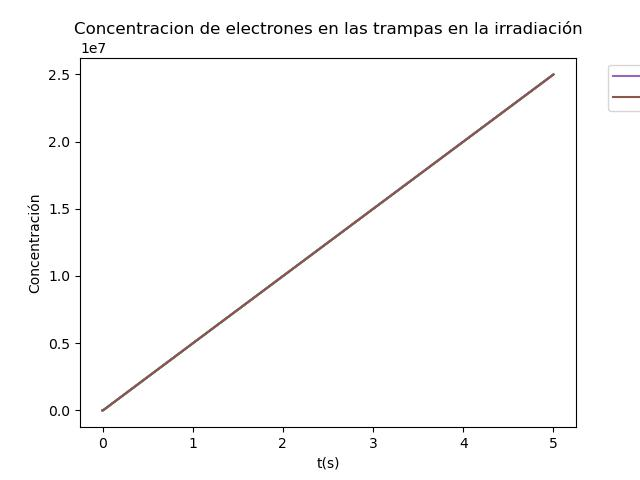
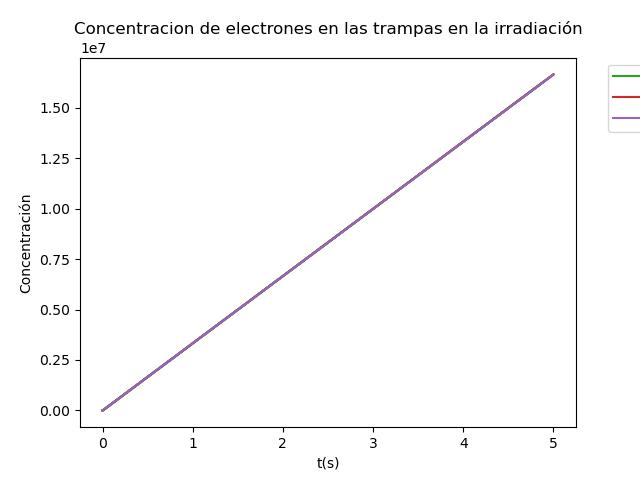
Añadido poder modificar beta

diff --git a/app.py b/app.py
@@ -318,15 +318,18 @@ form = st.form('Entrada')
 a=form.write('Introduzca el tiempo de irradiación')
 a = form.number_input('Tiempo de irradiación:')
 b = form.number_input('Tiempo de relajación:')
+c=form.number_input('Beta:')
 form.form_submit_button('Enviar')
 tmax= a
 tmaxr=b
+beta=c
 tmax = float(tmax)
 if tmax == -9999:
     st.write('Introduzca el tiepo de irradiación.')
 else:
     st.write('Tiempo de irradiación='+str(tmax))
     st.write('Tiempo de relajación= '+str(tmaxr))
+    st.write('Beta= '+str(beta))
 
 # Preguntar al usuario si desea usar un archivo existente o cargar uno nuevo
 option = st.selectbox("Seleccione una opción:", ("Usar archivo existente", "Cargar archivo Excel"))
@@ -501,7 +504,7 @@ if st.button('iniciar calentamiento'):
     for i in range(len(N)):
         # aquí estamos actualizando el numero de trampas que hay después de crearse para que lo use el resto de funciones
         NN[i] = NFCT(E[i], i, 297.15, tmax)
-    beta = 10
+    beta=c
     # aquí definimos la temperatura máxima que queremos alcanzar en grados kelvin
     mt = ((230+273.15)-Tamb)/beta
 
@@ -533,7 +536,7 @@ if st.button('iniciar calentamiento'):
             plt.legend(bbox_to_anchor=(1.05, 1.0), loc='upper left')
             plt.xlim(0, 230)
             plt.title(
-                'Concentracion de electrones en las trampas en la relajación')
+                'Concentracion de electrones en las trampas, beta='+str(beta))
             plt.xlabel('t(s)')
 
             plt.ylabel('Concentración')
@@ -542,7 +545,7 @@ if st.button('iniciar calentamiento'):
         plt.figure(2)
         plt.plot(ttemp/mt*200,tlc)
         plt.plot(200,0)
-        plt.title('Curva tld-100')
+        plt.title('Curva tl, beta='+str(beta))
         plt.xlabel('canal')
         plt.savefig('src/curva.jpg')
         imagecu='src/curva.jpg'
